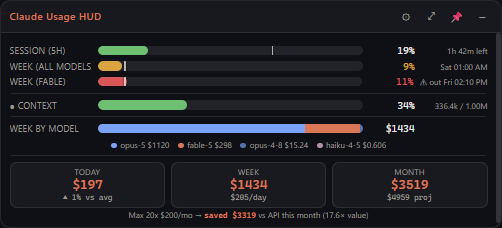
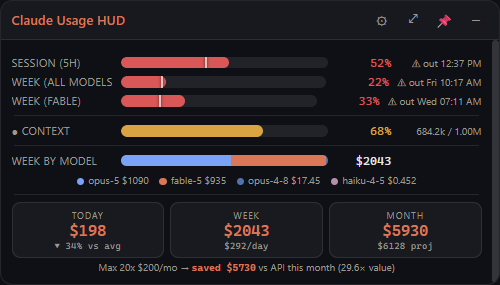
v0.1.32: right-drag opacity actually reaches the app
Right-dragging opened the Windows system menu instead. The panel body was
registered as a drag region, which Windows treats as title bar, so a
right-click there is a non-client message that opens the system menu and
never reaches the page. Hooking the message could observe it but not
suppress it.

The body is no longer a drag region, so it receives the right button
normally; pointer capture keeps the drag tracking outside the window. The
window is moved from the title bar, as before.

diff --git a/main.js b/main.js
@@ -302,60 +302,25 @@ function startTopmostKeeper() {
 }
 
 // ---- right-drag to set idle opacity ----
-// Most of the panel is a native drag region, so right-clicks there arrive as
-// non-client messages the page never sees. Hooking the window messages catches
-// both cases without another process. Dragging right brightens the resting
-// opacity, left fades it; that resting value is what you see when the cursor
-// is away and whenever the window is pinned.
-const WM_RBUTTONDOWN = 0x0204;
-const WM_RBUTTONUP = 0x0205;
-const WM_NCRBUTTONDOWN = 0x00A4;
-const WM_NCRBUTTONUP = 0x00A5;
-const OPACITY_DRAG_PX = 320; // full 0..1 sweep over this many pixels
-
-let opacityDrag = null;
-
-function startOpacityDrag() {
-  if (opacityDrag || !win || win.isDestroyed() || settings.pinned) return;
-  const { screen } = require('electron');
-  opacityDrag = {
-    startX: screen.getCursorScreenPoint().x,
-    startOpacity: settings.idleOpacity ?? 0.55,
-    timer: setInterval(() => {
-      if (!opacityDrag || !win || win.isDestroyed()) return;
-      const dx = screen.getCursorScreenPoint().x - opacityDrag.startX;
-      const next = Math.max(0.15, Math.min(1, opacityDrag.startOpacity + dx / OPACITY_DRAG_PX));
-      settings.idleOpacity = Math.round(next * 100) / 100;
-      win.setOpacity(settings.idleOpacity); // preview it directly, hover or not
-      win.webContents.send('hud:opacityPreview', settings.idleOpacity);
-    }, 25),
-    // Safety net: if the button-up message is missed (the cursor can leave the
-    // window mid-drag), don't get stuck adjusting forever.
-    guard: setTimeout(() => endOpacityDrag(), 15000),
-  };
+// Driven from the renderer: the panel body is deliberately not a drag region,
+// so it receives the right button and the Windows system menu never appears.
+// The value set here is the resting opacity — what you see when the cursor is
+// away, and whenever the window is pinned.
+function setIdleOpacityLive(v) {
+  if (!win || win.isDestroyed()) return;
+  const next = Math.max(0.15, Math.min(1, Number(v)));
+  if (!Number.isFinite(next)) return;
+  settings.idleOpacity = Math.round(next * 100) / 100;
+  win.setOpacity(settings.idleOpacity); // preview it directly, hovered or not
+  win.webContents.send('hud:opacityPreview', settings.idleOpacity);
 }
 
-function endOpacityDrag() {
-  if (!opacityDrag) return;
-  clearInterval(opacityDrag.timer);
-  clearTimeout(opacityDrag.guard);
-  opacityDrag = null;
+function endIdleOpacityDrag() {
+  if (!win || win.isDestroyed()) return;
   saveSettings();
   applyOpacity();
-  if (win && !win.isDestroyed()) {
-    win.webContents.send('hud:opacityPreview', null);
-    win.webContents.send('hud:settings', publicSettings());
-  }
-}
-
-function hookOpacityDrag() {
-  if (process.platform !== 'win32' || !win || win.isDestroyed()) return;
-  try {
-    win.hookWindowMessage(WM_RBUTTONDOWN, startOpacityDrag);
-    win.hookWindowMessage(WM_NCRBUTTONDOWN, startOpacityDrag);
-    win.hookWindowMessage(WM_RBUTTONUP, endOpacityDrag);
-    win.hookWindowMessage(WM_NCRBUTTONUP, endOpacityDrag);
-  } catch { /* not available; the Settings slider still works */ }
+  win.webContents.send('hud:opacityPreview', null);
+  win.webContents.send('hud:settings', publicSettings());
 }
 
 // ---- dwell on the pin button to unpin ----
@@ -534,8 +499,6 @@ function createWindow() {
   win.on('restore', () => reassertTopmost(true));
   win.on('blur', () => reassertTopmost(false));
   win.on('closed', () => { win = null; });
-  win.on('blur', () => endOpacityDrag()); // release if focus is lost mid-drag
-  hookOpacityDrag();
 
   win.webContents.on('did-finish-load', () => {
     if (!win.isVisible()) win.showInactive(); // belt and suspenders for the show race
@@ -747,6 +710,9 @@ ipcMain.on('hud:hide', () => { if (win) win.hide(); rebuildTrayMenu(); });
 // next launch. The size is now yours alone; the renderer scales its content to
 // fit whatever you choose (see fitCompact), so nothing is ever clipped.
 ipcMain.on('hud:reportHeight', () => {});
+
+ipcMain.on('hud:opacityLive', (_e, v) => setIdleOpacityLive(v));
+ipcMain.on('hud:opacityEnd', () => endIdleOpacityDrag());
 
 ipcMain.on('hud:pinRect', (_e, r) => {
   if (r && Number.isFinite(r.x) && Number.isFinite(r.y) && r.w > 0 && r.h > 0) pinRect = r;

diff --git a/renderer/app.js b/renderer/app.js
@@ -702,6 +702,36 @@ function reportPinRect() {
   window.hud.reportPinRect({ x: r.left, y: r.top, w: r.width, h: r.height });
 }
 
+// Right-drag anywhere on the panel body sets the resting opacity. Pointer
+// capture keeps it tracking even when the cursor leaves the window mid-drag.
+const OPACITY_SWEEP_PX = 320; // pixels for a full 0..1 sweep
+let opacityDrag = null;
+
+document.addEventListener('contextmenu', (e) => e.preventDefault());
+
+document.addEventListener('pointerdown', (e) => {
+  if (e.button !== 2 || !settings || settings.pinned) return;
+  if (e.target.closest('input, textarea, select')) return;
+  opacityDrag = { x: e.screenX, start: settings.idleOpacity ?? 0.55 };
+  try { e.target.setPointerCapture(e.pointerId); } catch { /* not capturable */ }
+  e.preventDefault();
+});
+
+document.addEventListener('pointermove', (e) => {
+  if (!opacityDrag) return;
+  const v = clamp(opacityDrag.start + (e.screenX - opacityDrag.x) / OPACITY_SWEEP_PX, 0.15, 1);
+  window.hud.setOpacityLive(Math.round(v * 100) / 100);
+});
+
+function finishOpacityDrag() {
+  if (!opacityDrag) return;
+  opacityDrag = null;
+  window.hud.endOpacityDrag();
+}
+document.addEventListener('pointerup', (e) => { if (e.button === 2) finishOpacityDrag(); });
+document.addEventListener('pointercancel', finishOpacityDrag);
+window.addEventListener('blur', finishOpacityDrag);
+
 // Live readout while right-dragging to set the resting opacity.
 window.hud.onOpacityPreview((v) => {
   const hud = $('#op-hud');

diff --git a/renderer/style.css b/renderer/style.css
@@ -108,8 +108,10 @@ body {
 .redge-l { top: 0; bottom: 0; left: 0; width: 5px; }
 .redge-r { top: 0; bottom: 0; right: 0; width: 5px; }
 
-/* Compact view has nothing to click or scroll, so the whole surface drags. */
-.app.compact .content { -webkit-app-region: drag; }
+/* The body is NOT a drag region: Windows treats drag regions as title bar, so
+   right-clicking one opens the system menu and the page never sees the click.
+   The body is needed for the right-drag opacity gesture, so window moving is
+   done from the title bar only. */
 button, input, textarea, select, a, .tab, .cstack, table { -webkit-app-region: no-drag; }
 
 .tb-btn {

diff --git a/preload.js b/preload.js
@@ -17,6 +17,8 @@ contextBridge.exposeInMainWorld('hud', {
   onUnpinProgress: (cb) => ipcRenderer.on('hud:unpinProgress', (_e, p) => cb(p)),
   onOpacityPreview: (cb) => ipcRenderer.on('hud:opacityPreview', (_e, v) => cb(v)),
   reportPinRect: (r) => ipcRenderer.send('hud:pinRect', r),
+  setOpacityLive: (v) => ipcRenderer.send('hud:opacityLive', v),
+  endOpacityDrag: () => ipcRenderer.send('hud:opacityEnd'),
   hide: () => ipcRenderer.send('hud:hide'),
   updateSettings: (patch) => ipcRenderer.send('hud:updateSettings', patch),
   openExternal: (url) => ipcRenderer.send('hud:openExternal', url),
